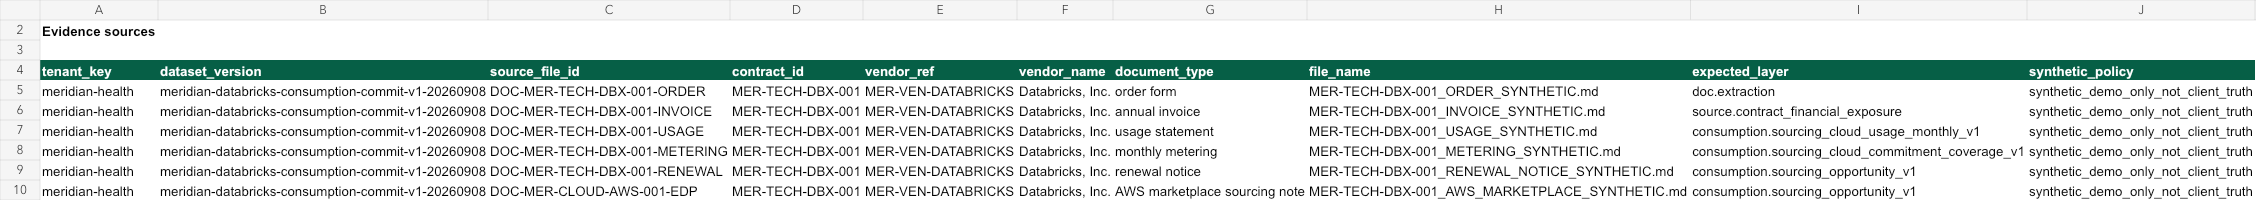
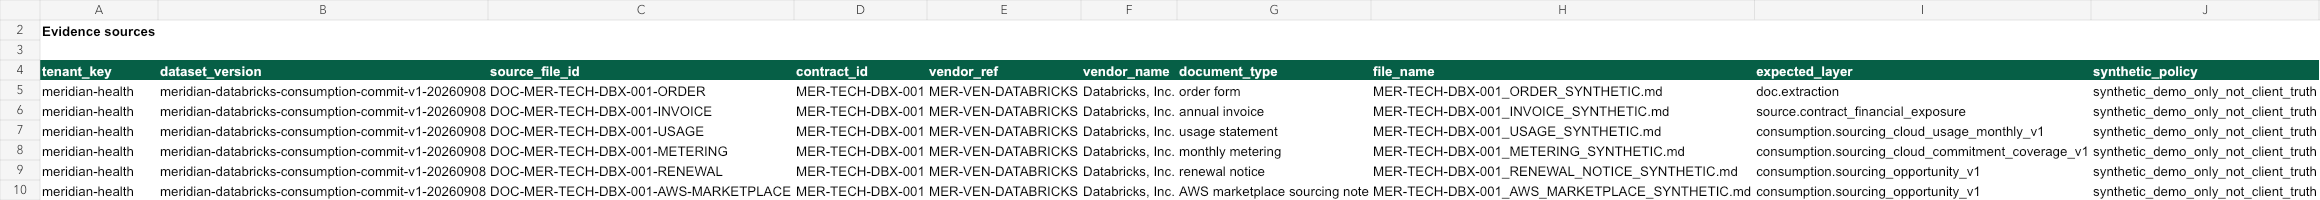
Protect Source document ownership boundaries (#7633)
* Add governed Source projection refresh entrypoints

* fix source document evidence retries

* docs: name source data release lane

* fix(source): protect document ownership boundaries

---------

diff --git a/docs/releases/records/2026-09-12-source-document-identity-boundary.md b/docs/releases/records/2026-09-12-source-document-identity-boundary.md
@@ -1,0 +1,68 @@
+# 2026-09-12 - Source document identity boundary
+
+## Release ID
+
+`2026-09-12-source-document-identity-boundary`
+
+## Status
+
+`candidate`
+
+## Plain-English Summary
+
+Keep document evidence attached to the contract that owns it. A companion source package now uses a contract-scoped identifier for an external marketplace sourcing note, and the loader refuses to overwrite a document file already owned by another contract.
+
+## Layer Impact
+
+- **Release lane:** `client-data-lane`.
+- **Client intake:** corrects the source package document identifier and regenerated page-text companion rows.
+- **Source adapters:** no adapter change.
+- **Canonical model:** no schema change; document ownership is validated before upsert.
+- **Products:** no presentation change; Source Evidence and Contract 360 receive corrected lineage.
+
+## Client Applicability
+
+- **Specific clients:** the explicitly selected tenant and contract IDs passed to the Source data-plane operator; Source users consuming corrected document lineage receive the resulting read-only projection.
+- No default data mutation.
+- Operator execution is limited to the explicitly selected tenant, package, and contract IDs.
+- No real client document content is added to the public repository.
+
+## Changes Included
+
+- Give the marketplace sourcing note a contract-scoped source file ID.
+- Regenerate the package page-text companion and manifest metadata.
+- Fail closed when an incoming source file ID is already owned by a different contract.
+- Add behavior coverage for the identity-conflict message.
+- Allow the optional page-text companion quality-gate metadata file to be absent.
+
+## QA / Validation
+
+**Status: pass.**
+
+- `node --test scripts/source/__tests__/load-contract-depth-document-evidence.test.mjs`
+- `npm run test:behaviors -- --runInBand`
+- Package companion generation reports six page rows for one contract.
+- Existing ACA document-evidence runs remain transactional and are rerunnable.
+
+## Rollout Plan
+
+Merge through the protected `main` PR path, deploy the exact merge SHA through `.github/workflows/aca-main-deploy.yml`, prove the digest-pinned ACA runtime invariant, then rerun the selected document-evidence operator job.
+
+## Deployment Authority
+
+- Repo-owned workflow: `.github/workflows/aca-main-deploy.yml`.
+- Data mutation: ACA operator job only, with a digest-pinned worker image.
+- Shared web traffic: no ad hoc mutation.
+- Live proof: required for Source Evidence and Contract 360 routes.
+
+## Rollback Plan
+
+Revert through a normal PR. The data operation is transactional and can be rerun with the previous package version.
+
+## Audit Evidence
+
+The release is complete only after CI, ACA deployment, runtime-invariant proof, operator-job proof, and signed-in Source Evidence verification all pass.
+
+## Known Gaps
+
+This release does not remap unrelated register-only contracts or invent missing raw documents. Unloaded lanes remain explicitly unavailable.
